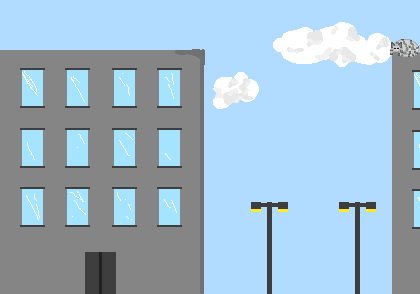
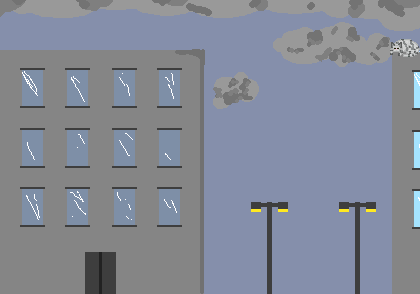
upgraded cutscene

diff --git a/src/scenes/OpeningCutscene.js b/src/scenes/OpeningCutscene.js
@@ -9,6 +9,9 @@ class OpeningCutscene extends Phaser.Scene {
         this.load.path = 'assets/';
         this.load.image('cat', 'cutscene/cat.png' );
         this.load.image('fallbg', 'cutscene/cutscene roof.png');
+        this.load.image('lightning', 'cutscene/cutscene lightning.png');
+        //load spritesheet
+        this.load.spritesheet('rain', 'cutscene/cutscene rain.png', {frameWidth: 420, frameHeight: 294, startFrame: 0, endFrame: 1});
     }
     
     create() {
@@ -17,12 +20,27 @@ class OpeningCutscene extends Phaser.Scene {
         // setting level background image
         this.background = this.add.sprite(0, 0, 'fallbg').setOrigin(0, 0);
         this.background.setScrollFactor(0);
+        //rain
+        this.anims.create({
+            key: 'rainanim',
+            frames: this.anims.generateFrameNumbers('rain', {start: 0, end: 1, first:0}),
+            frameRate: 15,
+            repeat: -1
+        });
+        this.rain = this.add.sprite(0,0, 'rain').setOrigin(0,0);
+        this.rain.anims.play('rainanim');
+
+        //lightning
+        this.lightning = this.add.sprite(0,0, 'lightning').setOrigin(0,0);
+        this.lightning.setAlpha(0);
+
 
         this.catFallPath = new Phaser.Curves.Path(0,40);
         this.catFallPath.lineTo(230, 40);
         this.catFallPath.splineTo([290, 180]);
         this.catFallPath.lineTo(290, 275);
         this.cat = this.add.follower(this.catFallPath, 50, 40, 'robo_atlas', 'robo_idle_r_0001');
+        this.lightningplayed = false;
 
         this.catTweenConfig = {
             targets: 'catFallPath',
@@ -43,6 +61,13 @@ class OpeningCutscene extends Phaser.Scene {
                 if(this.cat.x >= 190 && this.cat.anims.currentAnim.key == 'robo_run_r') {
                     this.cat.anims.play('robo_jump_r');
                 }
+                if(this.cat.x >=265 && this.cat.x < 280 && !this.lightningplayed) {
+                    this.lightningplayed = true;
+                    this.cameras.main.flash(175);
+                }
+                if(this.cat.x >= 283 && this.lightningplayed) {
+                    this.lightningplayed = false;
+                }
             },
             onComplete: function() {
                 this.cat.anims.play('robo_explosion');
@@ -58,13 +83,18 @@ class OpeningCutscene extends Phaser.Scene {
 
 
         //transition to level 1 at the end of the cutscene
-        this.time.delayedCall(this.duration + 1000, () => {
+       /* this.time.delayedCall(this.duration + 1000, () => {
             this.scene.stop();
             this.scene.start('Level1Scene');
-        });
+        });*/
     }
 
     update() {
-
+        if(this.lightningplayed) {
+            this.lightning.setAlpha(1);
+        }
+        else{
+            this.lightning.setAlpha(0);
+        }
     }
 }
